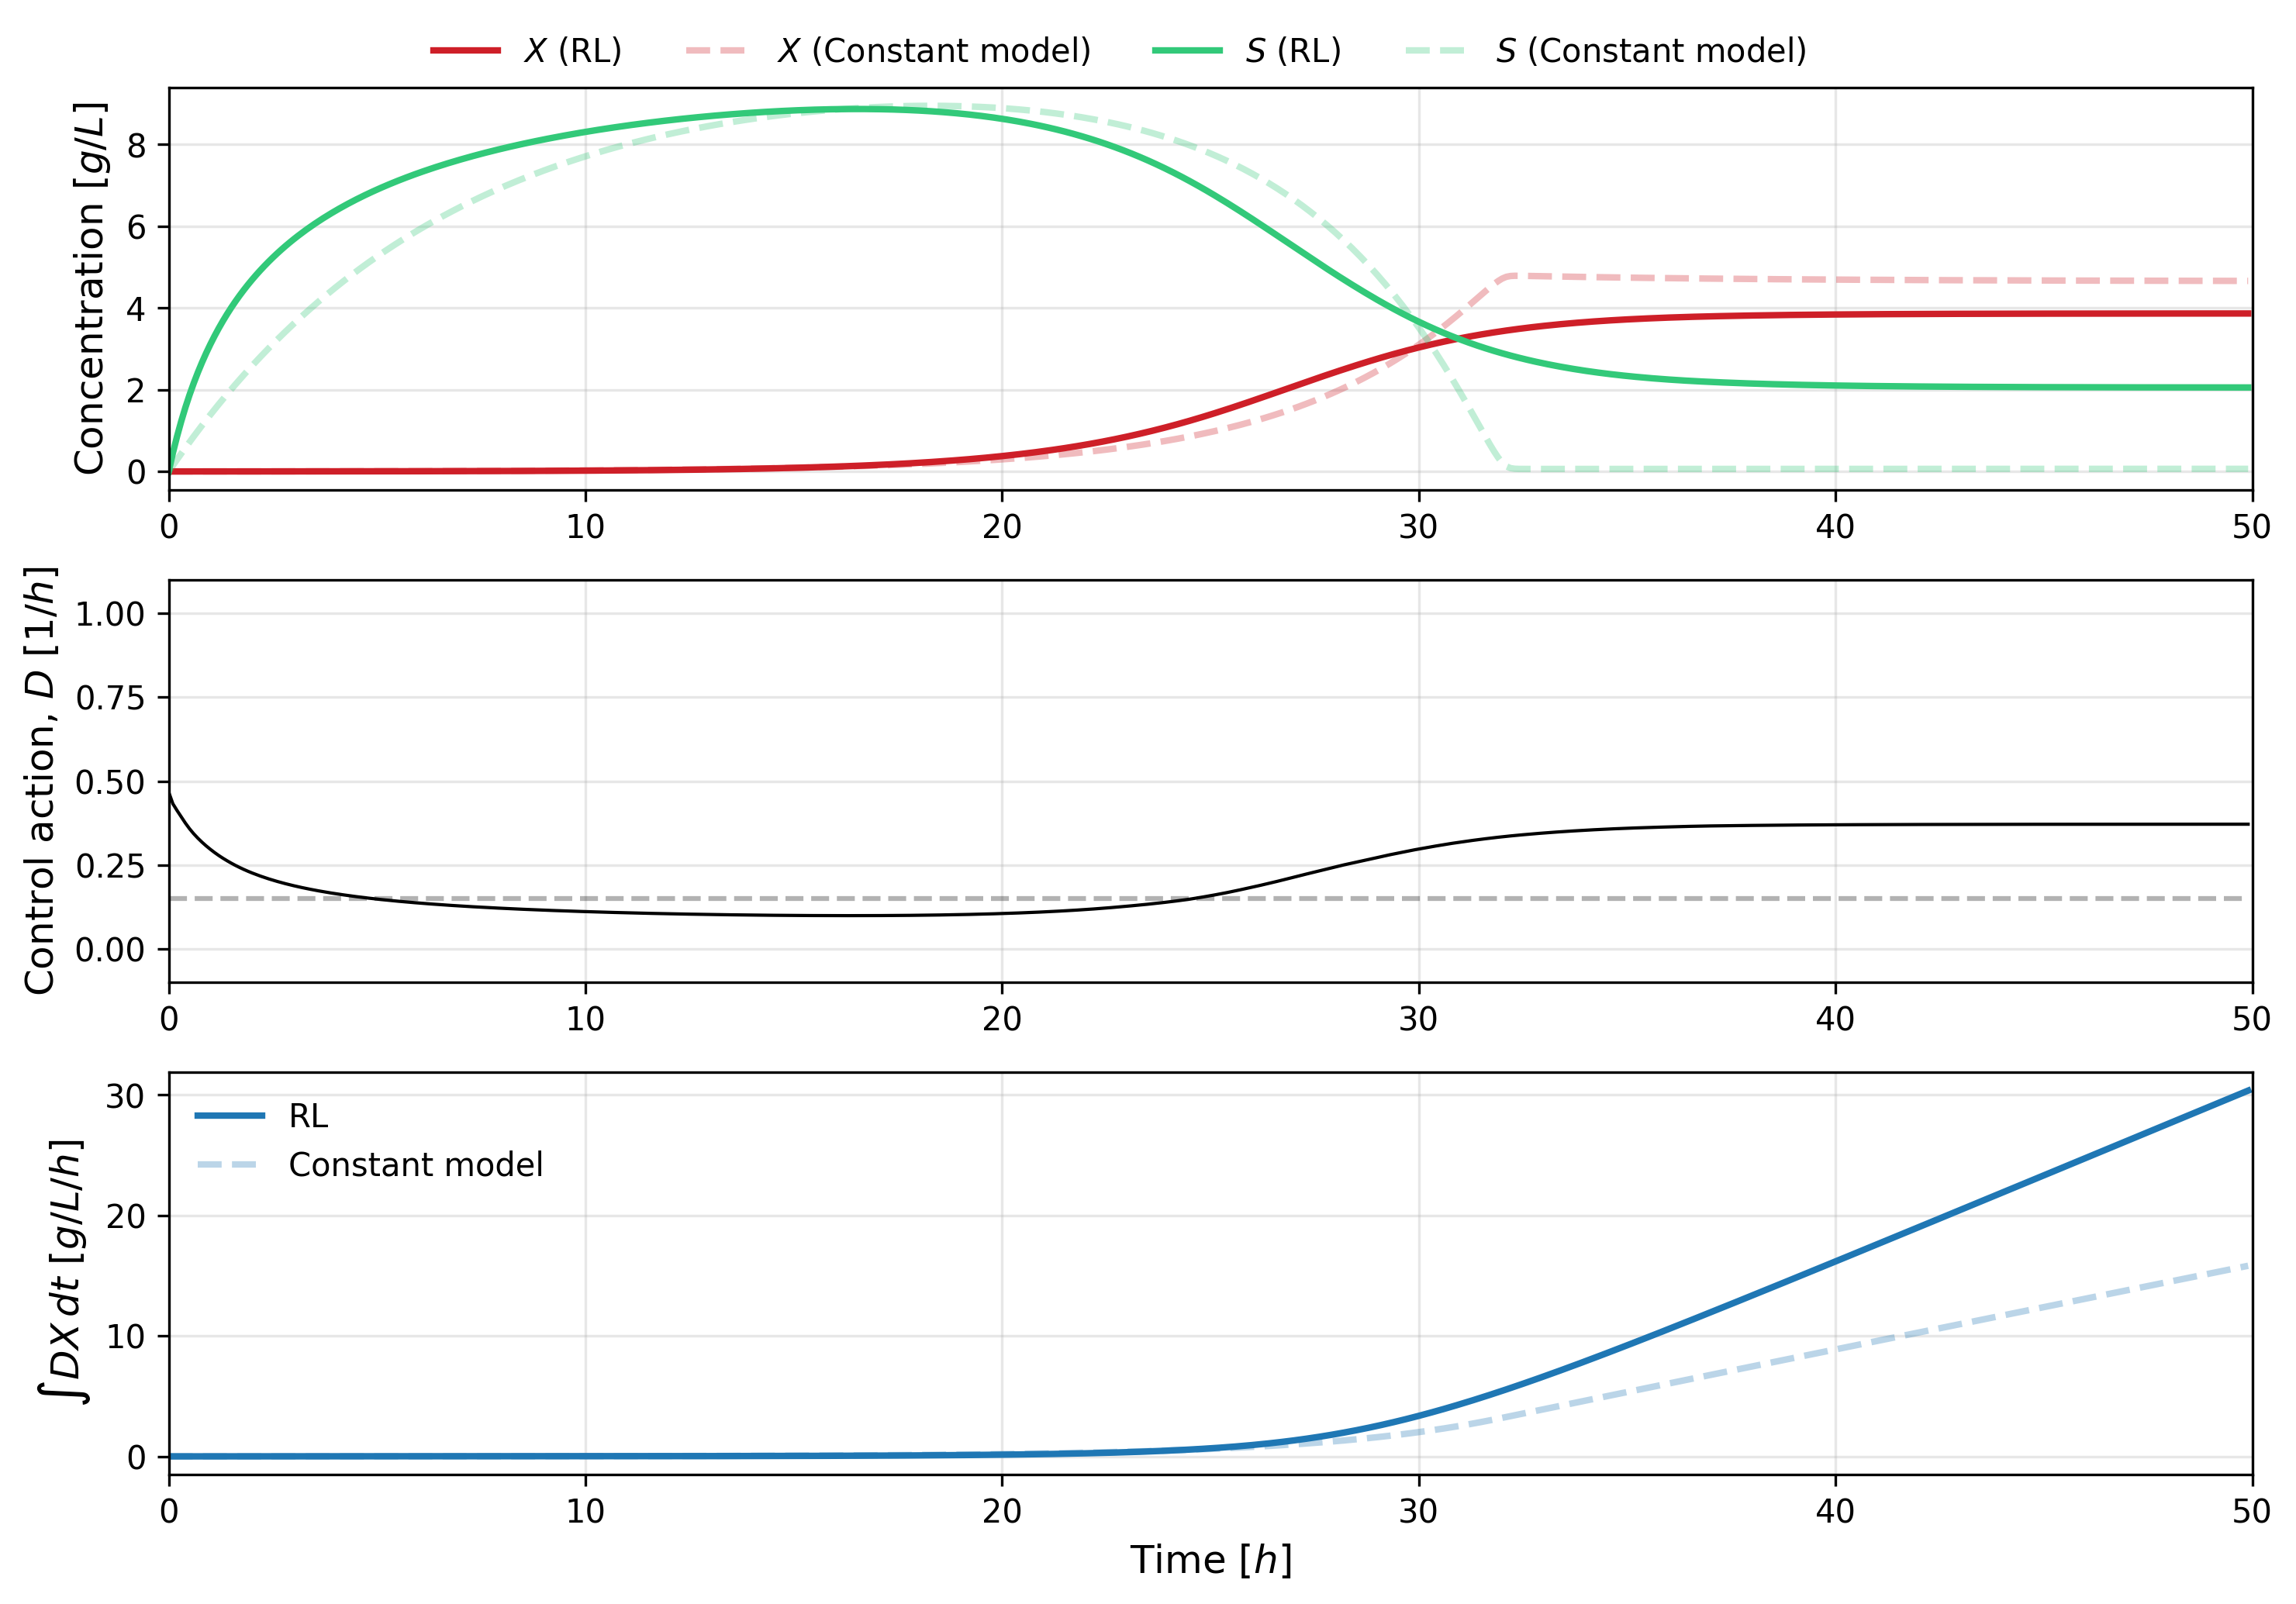
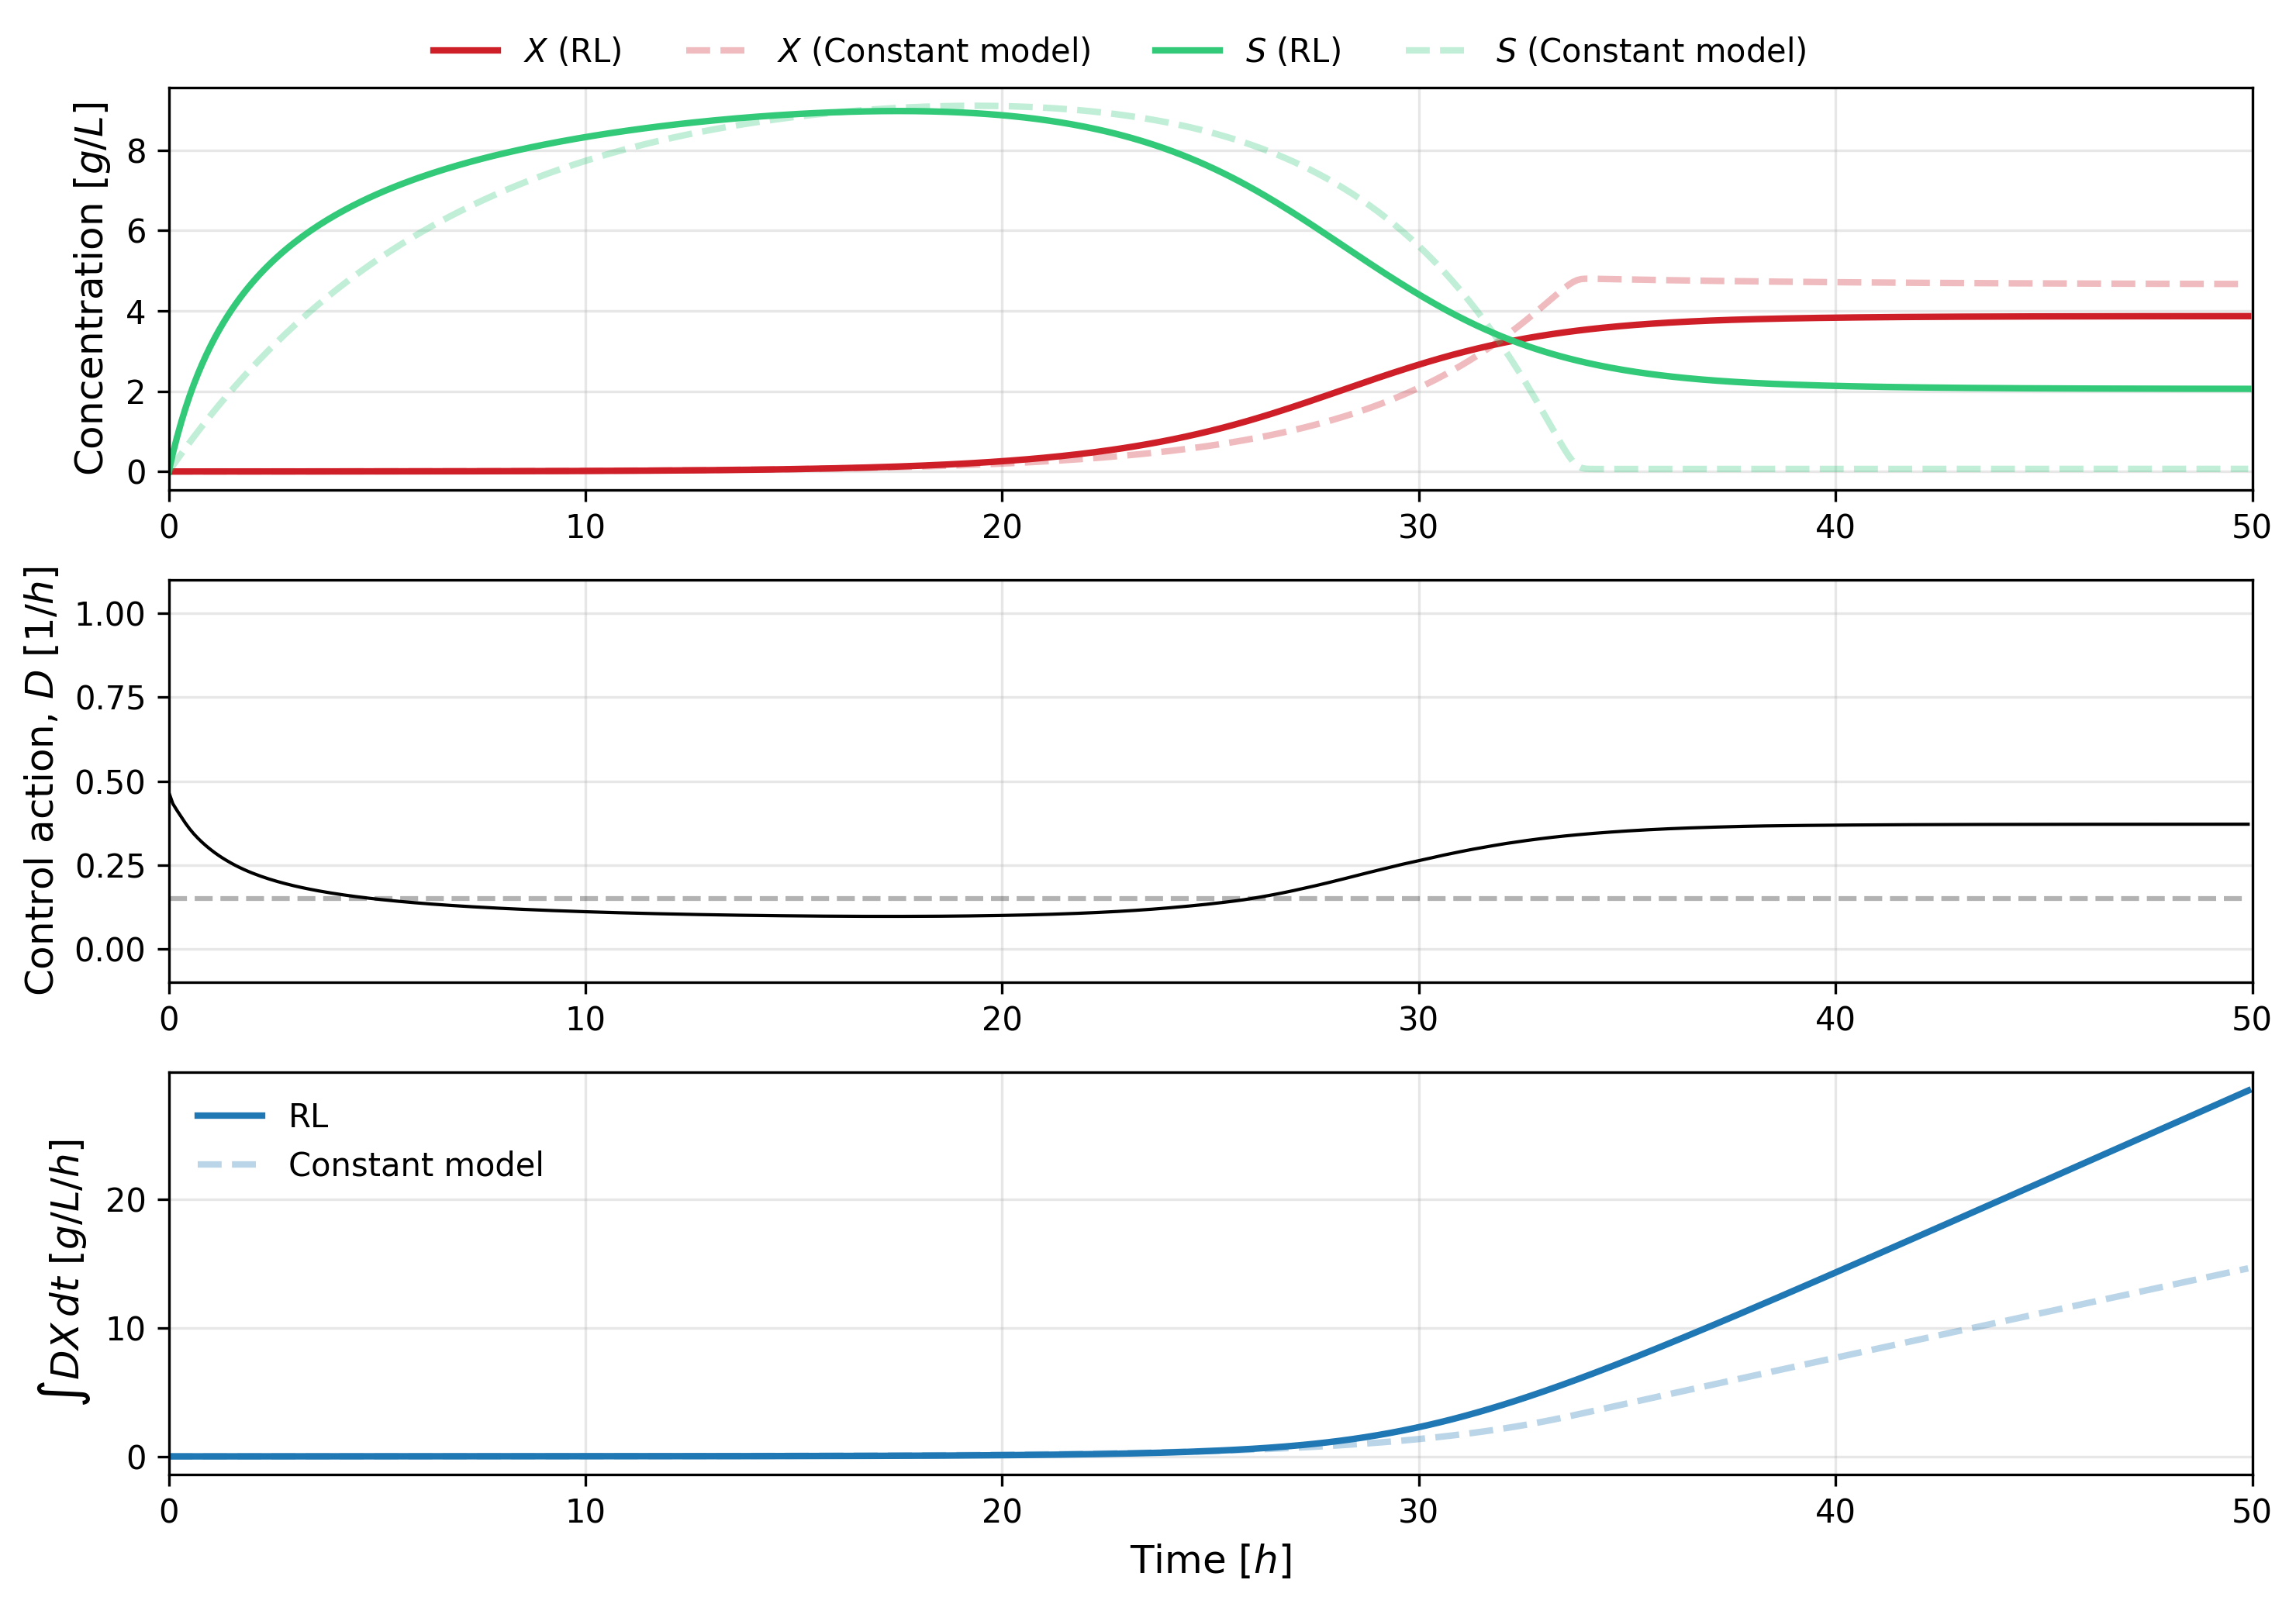
Update

diff --git a/_posts/2026-04-22-control-of-bioreactor.md b/_posts/2026-04-22-control-of-bioreactor.md
@@ -167,7 +167,7 @@ is the output of the policy network.
 
 The reward is computed as <span class="math display">$$ D \cdot X $$</span>.
 
-We assume that washout occurs if <span class="math display">$$ X $$</span> drops below <span class="math display">$$ 10^{-3} g\L $$</span>
+We assume that washout occurs if <span class="math display">$$ X $$</span> drops below <span class="math display">$$ 10^{-3} g/L $$</span>
 and is penalized with an additional <span class="math display">$$ -10.0 $$</span> reward.
 
 ## REINFORCE model for bioreactor control
@@ -243,7 +243,7 @@ Let's also start the bioreactor at a challenging initial condition that is close
 <span class="math display">$$
 \begin{equation}
     \begin{cases}
-        X(t = 0) = 0.03 \frac{g}{L} \\
+        X(t = 0) = 0.002 \frac{g}{L} \\
         S(t = 0) = 0.0 \frac{g}{L}
     \end{cases}
 \end{equation}$$</span>
@@ -264,7 +264,7 @@ drop <span class="math display">$$ X $$</span> in the reactor by <span class="ma
 The RL agent chooses to decrease <span class="math display">$$ D $$</span> for a while after this event most
 likely to avoid potential washout. However, there is a better constant action that leads to higher
 cumulative productivity at <span class="math display">$$ D \approx 0.3 \,\, 1/h $$</span>. 
-There is room to improve the RL training! :) 
+There is room to improve the RL training 🙂 
 
 <p align="center">
   <img src="https://github.com/kamilazdybal/kamilazdybal.github.io/raw/main/_posts/bioreactor-control-with-perturbation.png" width="800">